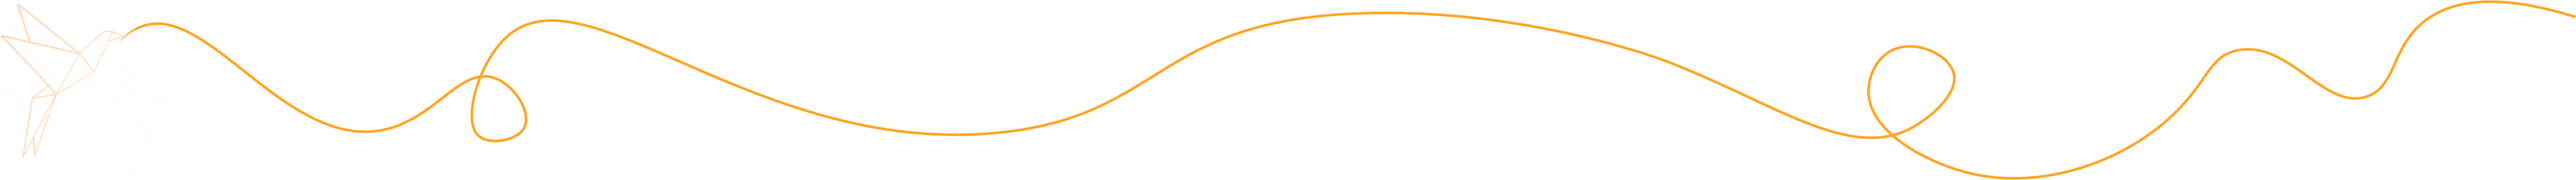
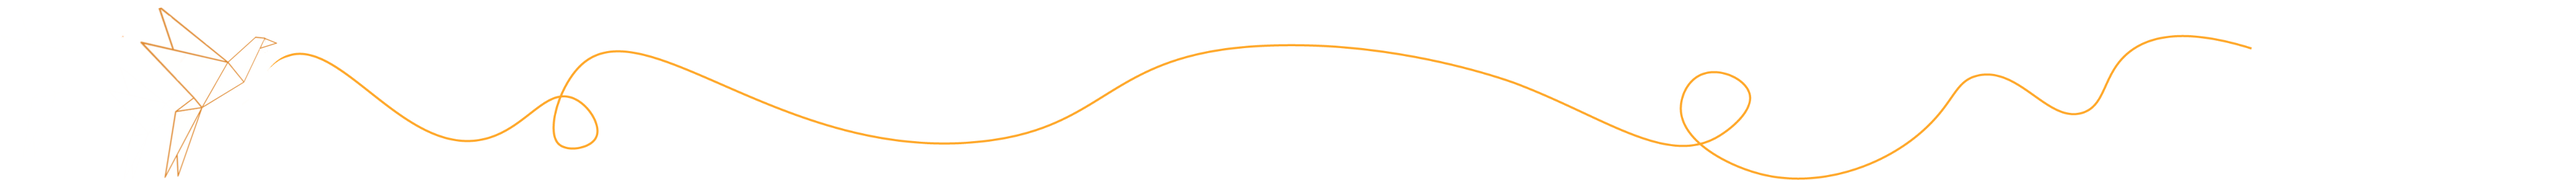
update

diff --git a/src/css/main.scss b/src/css/main.scss
@@ -121,6 +121,7 @@ textarea {
 
 .kom-item-img {
     margin-top: 5%;
+    max-width: 400px;
 }
 
 .kom-item-img.partner {
@@ -216,8 +217,7 @@ textarea {
     color: #250101;
 }
 
-.box-container-1 {
-    /**popravljeno zaenkrat tako, da bom se naknadno naredila spodaj vijuge in ozadje*/
+/* .box-container-1 {
     width: 100%;
     vertical-align: middle;
     overflow: hidden;
@@ -225,6 +225,10 @@ textarea {
     justify-content: center;
     margin: 0 auto;
     box-shadow: -4px 20px 15px #8e774c;
+} */
+
+.box-container.picture {
+    margin-top: 200px;
 }
 
 .main-content-left {

diff --git a/src/pages/komunikacija-partner.js b/src/pages/komunikacija-partner.js
@@ -18,8 +18,11 @@ const KomunikacijaPartner = () => (
         </div>
       </div>
       <div className="kom-img-desc">
-        <img className="kom-item-img partner" src="../assets/vil-zaupanje-12.png" alt="" />
-        <div className="vil-description">
+        <img className="kom-item-img" src="../assets/kom-partner.png" alt="" />
+
+
+        {/*   <img className="kom-item-img partner" src="../assets/vil-zaupanje-12.png" alt="" />
+      */}   <div className="vil-description">
           Zaupanje
         </div>
       </div>

diff --git a/src/pages/komunikacija-otrok.js b/src/pages/komunikacija-otrok.js
@@ -21,7 +21,10 @@ const KomunikacijaOtrok = () => (
         </div>
       </div>
       <div className="kom-img-desc">
-        <img className="kom-item-img" src="../assets/vil-varnostInZascita-12.png" alt="" />
+        <img className="kom-item-img" src="../assets/kom-otrok.png" alt="" />
+
+        {/* <img className="kom-item-img" src="../assets/vil-varnostInZascita-12.png" alt="" />
+        */}
         <div className="vil-description">
           Varnost in zaščita
         </div>

diff --git a/src/pages/komunikacija-sluzba.js b/src/pages/komunikacija-sluzba.js
@@ -16,7 +16,10 @@ const KomunikacijaSluzba = () => (
         </div>
       </div>
       <div className="kom-img-desc">
-        <img className="kom-item-img sluzba" src="../assets/vil-odprtost-12.png" alt="" />
+        {/*  <img className="kom-item-img sluzba" src="../assets/vil-odprtost-12.png" alt="" />
+       */}
+        <img className="kom-item-img sluzba" src="../assets/kom-sluzba.png" alt="" />
+
         <div className="vil-description">
           Odprtost
         </div>

diff --git a/src/components/header.js b/src/components/header.js
@@ -34,7 +34,8 @@ const Header = ({ siteTitle, subtitle, description }) => (
         </p>
       </span>
       <div className="header-image-div">
-        <img className="header-image" src="../icons/kom-kr-logo-1.png" alt="" />
+        {/*   <img className="header-image" src="../icons/kom-kr-logo-1.png" alt="" /> */}
+        <img className="header-image" src="../icons/pticki-png-barva1.png" alt="" />
       </div>
     </div>
     {/*  <div className="header-main-div">

diff --git a/src/pages/predavanja.js b/src/pages/predavanja.js
@@ -12,8 +12,8 @@ const Predavanja = () => (
       </div>
     </div>
 
-    <div className="box-container" style={{
-      backgroundImage: `url(../assets/crta3.png)`,
+    <div className="box-container picture" style={{
+      backgroundImage: `url(../assets/crta5.png)`,
       backgroundSize: '100%',
       backgroundRepeat: 'no-repeat',
       height: '300px',

diff --git a/src/pages/poslusalka.js b/src/pages/poslusalka.js
@@ -15,7 +15,7 @@ const Poslusalka = () => (
         </div>
       </div>
       <div className="kom-img-desc">
-        <img className="kom-item-img" src="../assets/vil-uspeh-131.png" alt="" />
+        <img className="kom-item-img" src="../assets/kom-poslusalka.png" alt="" />
         <div className="vil-description">
           Uspeh
         </div>

diff --git a/src/css/header.scss b/src/css/header.scss
@@ -56,7 +56,7 @@
 
 .contact-icons {
     flex-grow: 1;
-    padding-top: 10px;
+    padding-top: 20px;
     padding-bottom: 10px;
 }
 .header-title-link {
